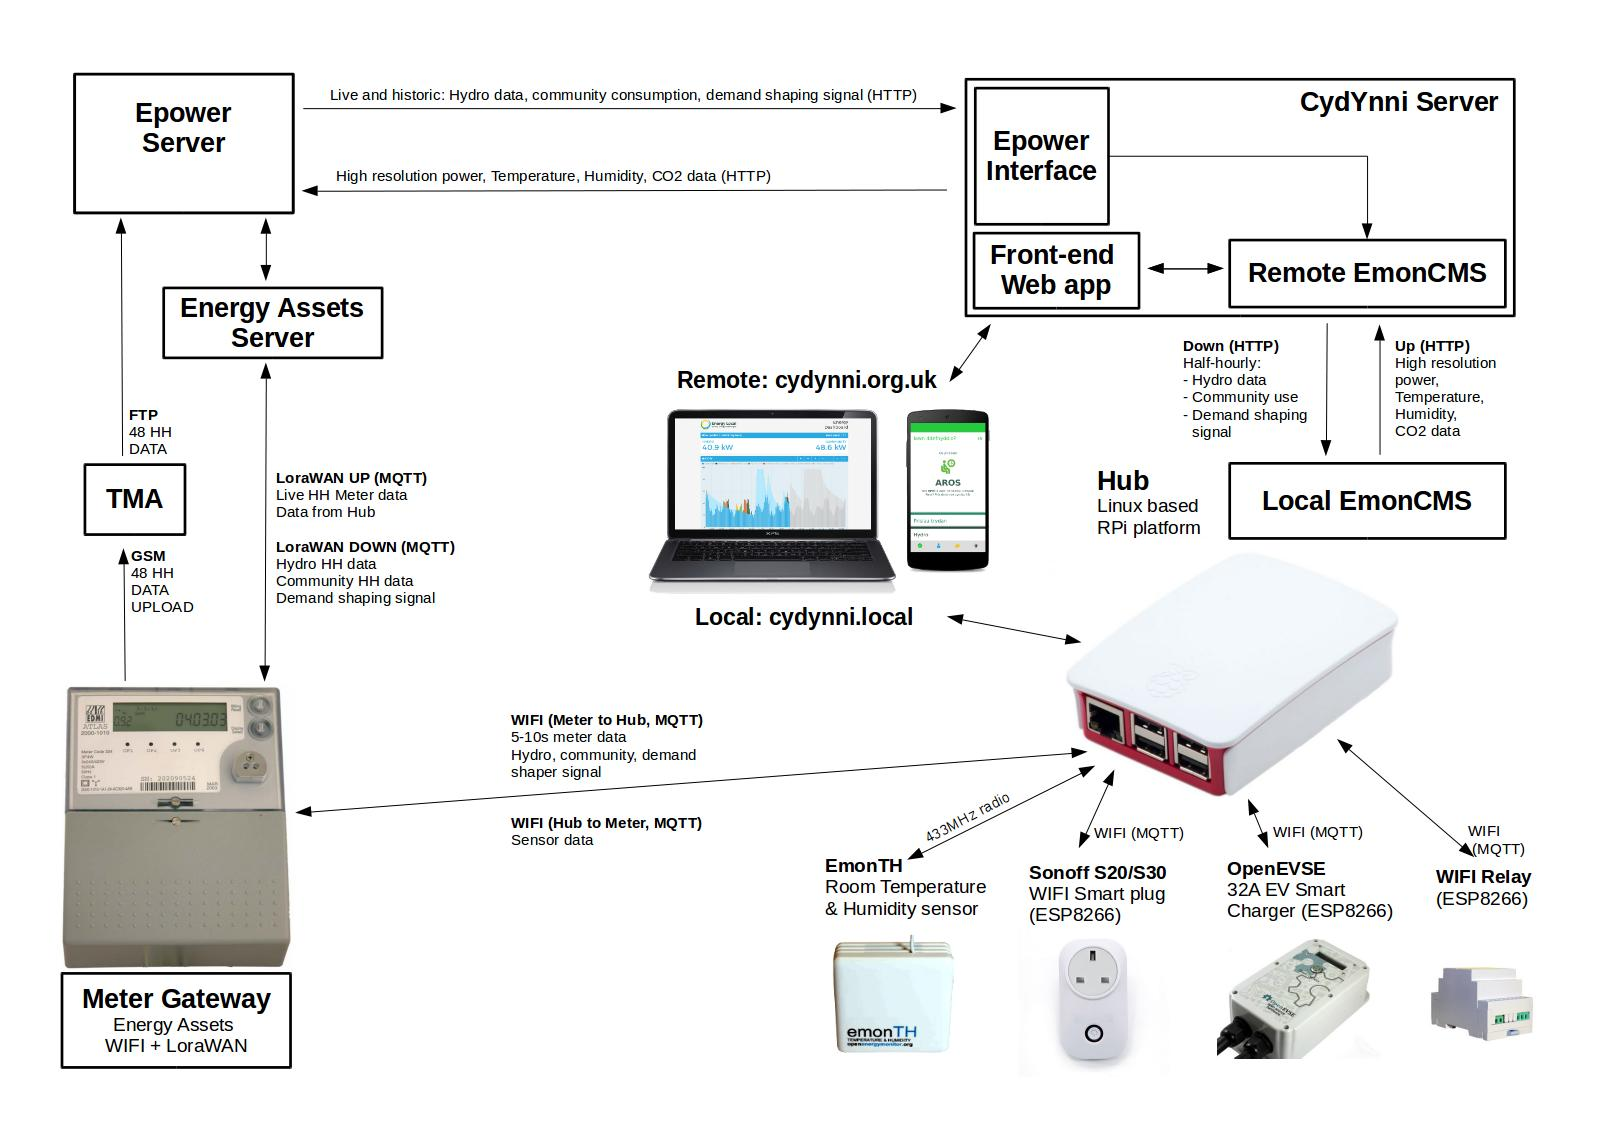
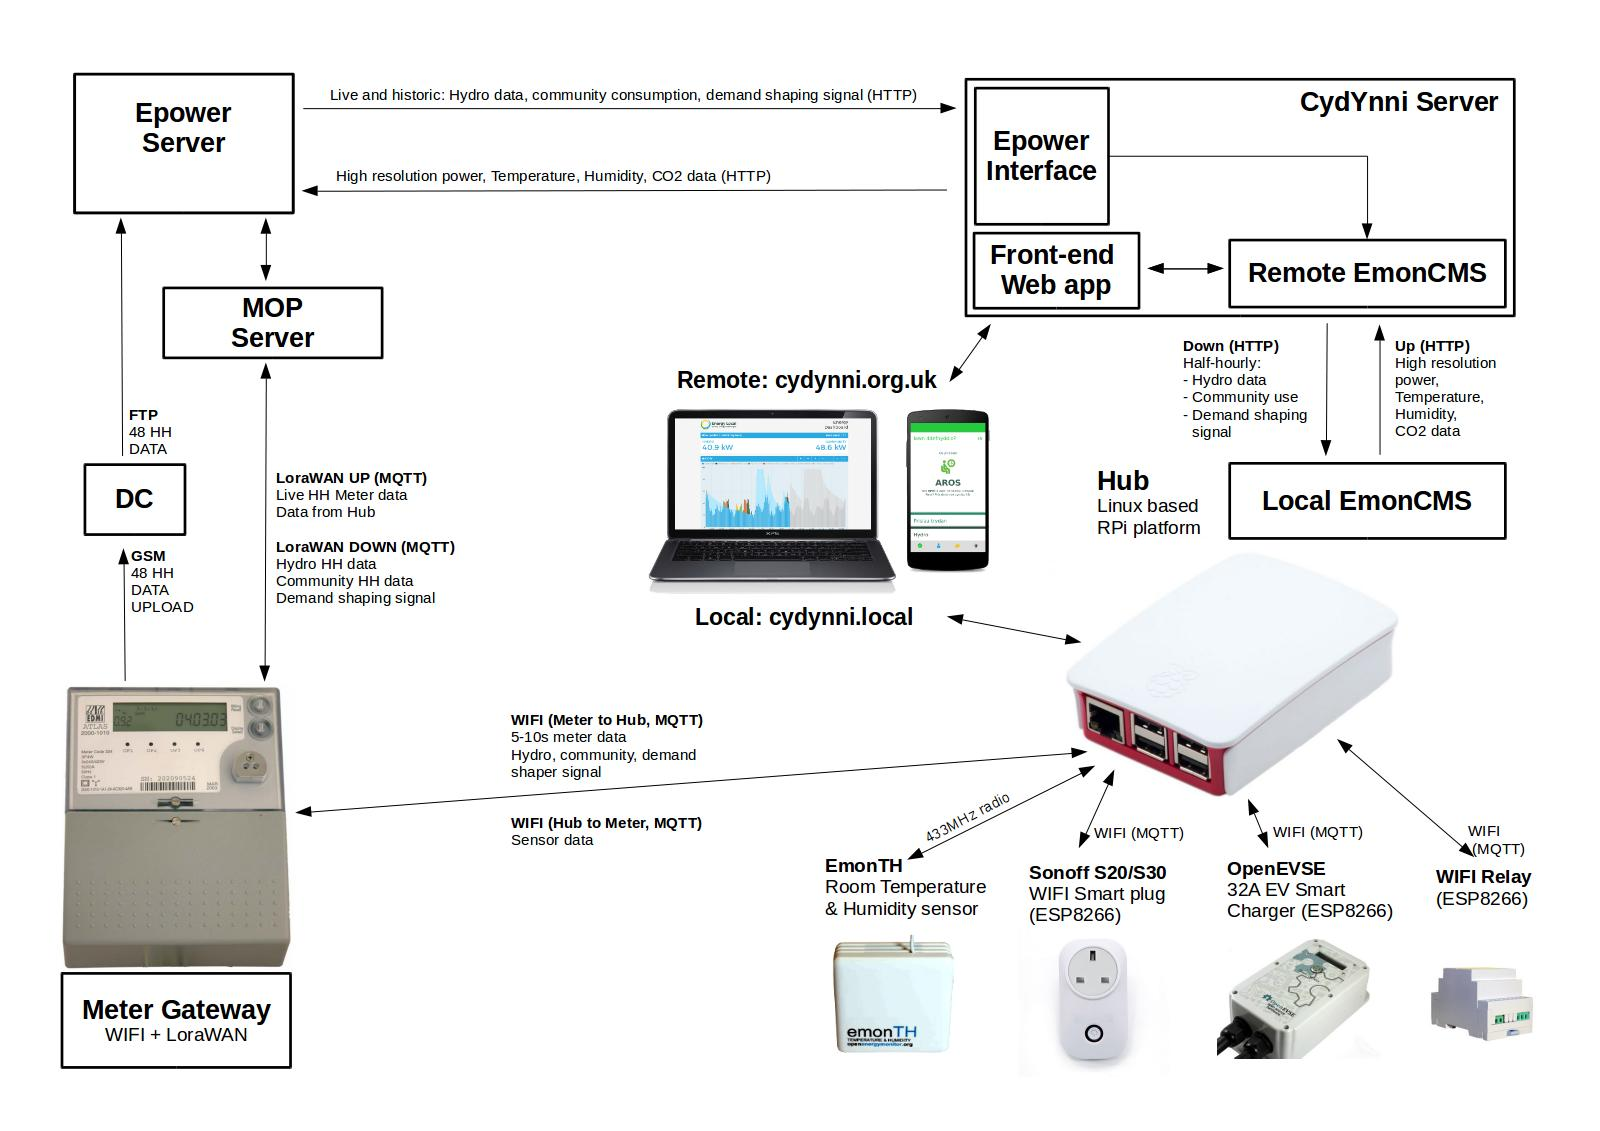
corrections

Changed region(s): [[0.0312, 0.8665, 0.1875, 0.9284], [0.0938, 0.2476, 0.2188, 0.2785], [0.0625, 0.4332, 0.0938, 0.4642]]

diff --git a/docs/architecture.md b/docs/architecture.md
@@ -15,13 +15,13 @@ The outlined CydYnni system below provides:
 
 **Household billing meter and meter gateway**
 
-On the left we start with the household billing meter and Energy Assets meter gateway which provides near real-time meter reading both of half hourly energy consumption and 5-10s real power measurement.
+On the left we start with the household billing meter and meter gateway provided for by the meter operator which provides near real-time meter reading both of half hourly energy consumption and 5-10s real power measurement.
 
 The meter gateway is based on the ESP8266 WIFI platform and provides a user interface for initial configuration including: connecting to the household WIFI network and detection of the in home hub.
 
-Meter readings are passed to the hub over WIFI using the MQTT protocol, this route is protected with TLS.
+Meter readings are passed to the hub over WIFI using the MQTT protocol.
 
-The meter gateway is also connected to a LoraWAN network ran by EnergyAssets which provides a secure upload route for half hourly meter readings and a potential route for data upload of other sensor data in the home.
+The meter gateway is also connected to a LoraWAN network ran by the meter operator which provides a secure upload route for half hourly meter readings and a potential route for data upload of other sensor data in the home.
 
 The LoraWAN network also provides the default route for the download of aggregated community consumption data, hydro generation data and the demand shaping signal. Which are then pushed on to the home hub over MQTT for use in the in-home-display and for deciding the best time to run the control devices.
 
